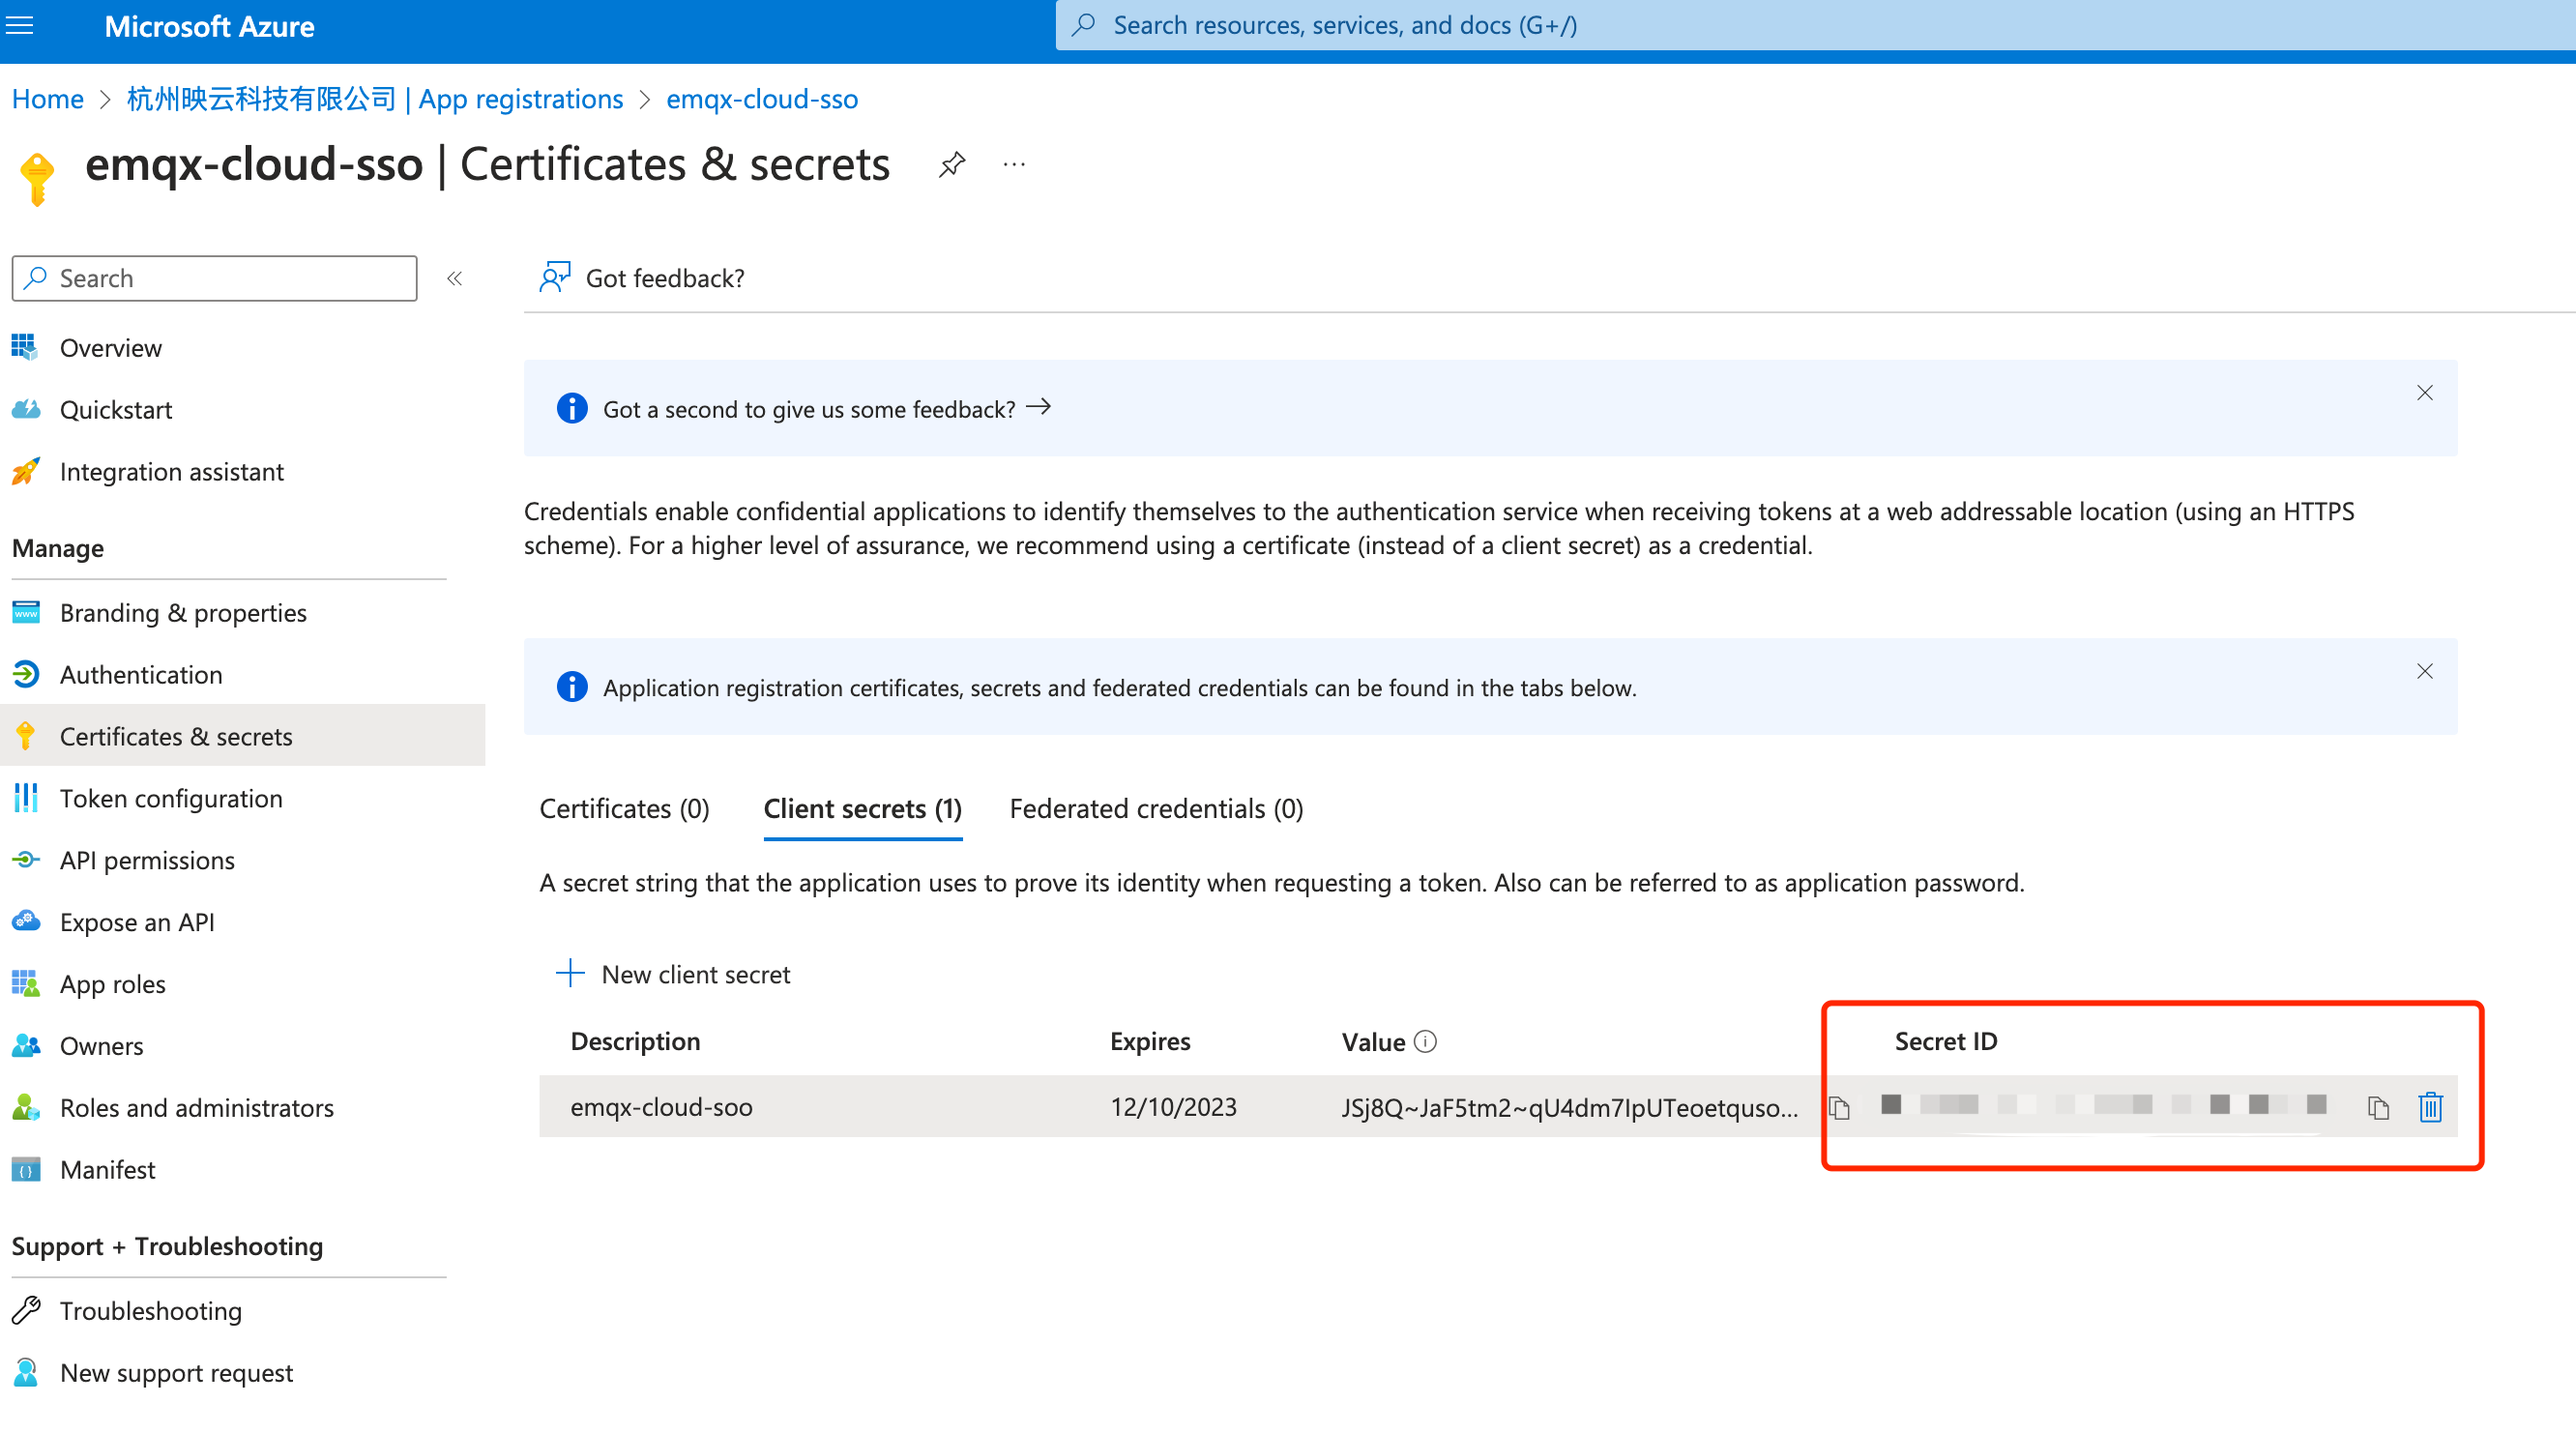
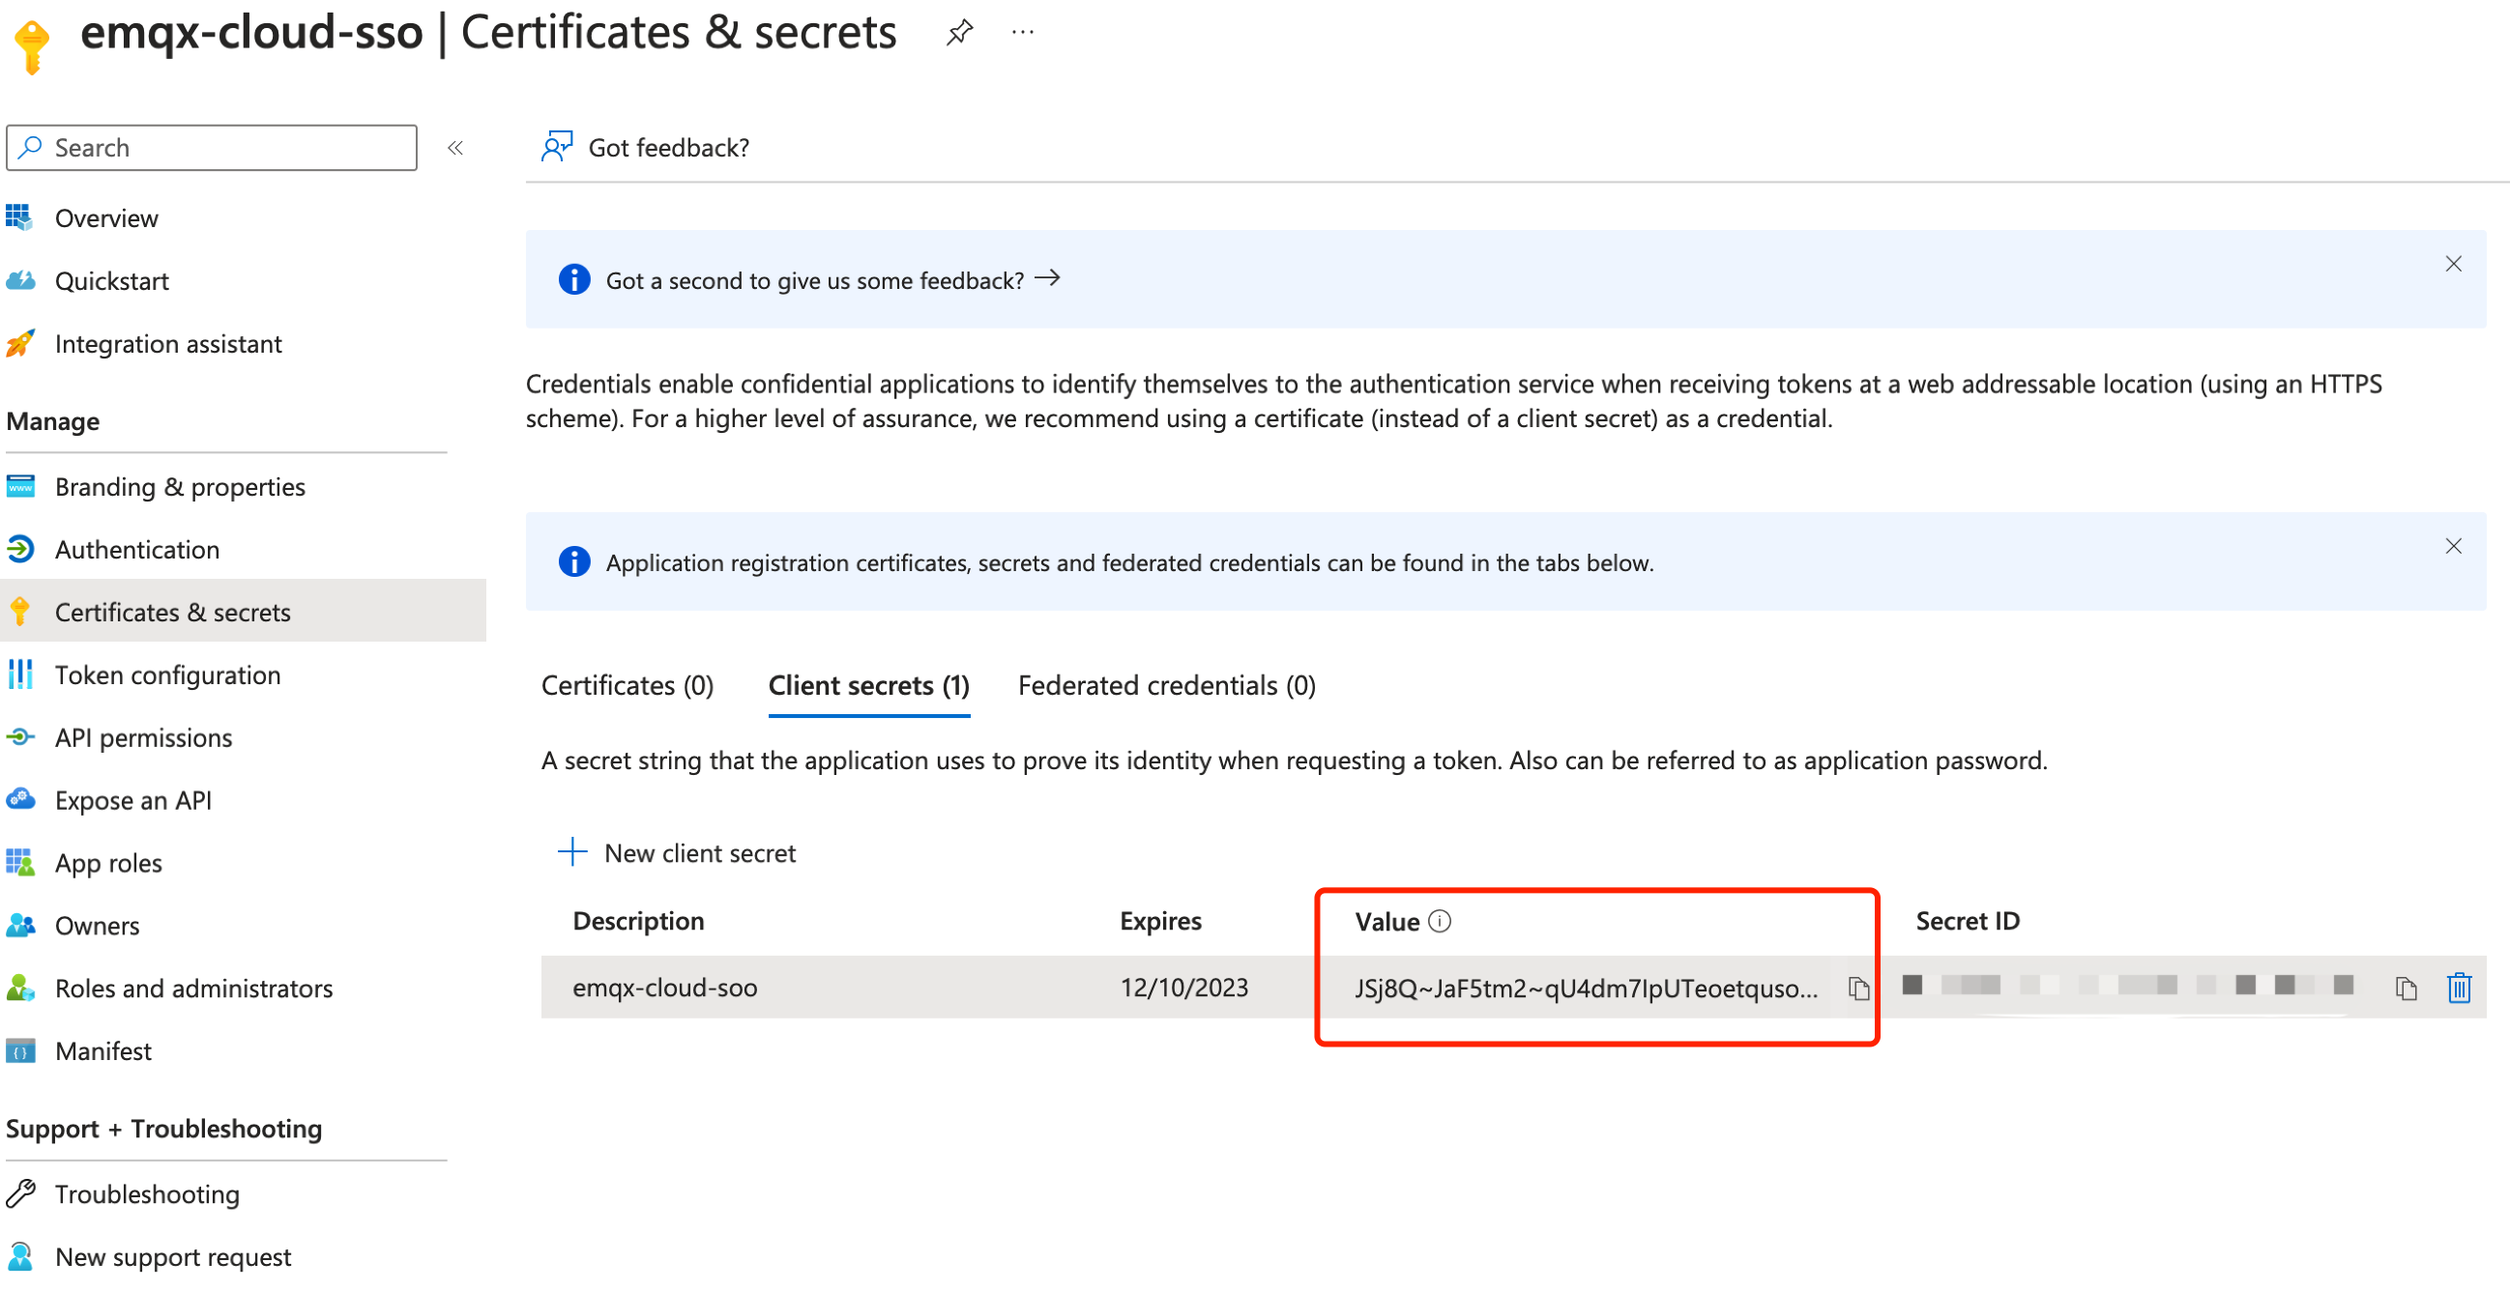
fix(docs): 5.0.2 updates

diff --git a/en_US/deployments/tls_ssl.md b/en_US/deployments/tls_ssl.md
@@ -19,6 +19,8 @@ The following table provides an overview of different requirements for certifica
 
   - 1024 bit RSA (RSA_1024)
   - 2048 bit RSA (RSA_2048)
+  - 256 bit ECDSA (ECC) 
+  - 384 bit ECDSA (ECC) 
 
 - Certificate (including certificate chain, if applicable): The EMQX Cloud supports uploading certificates in **x509** format. **Please merge your certificate (.crt or .pem) and any related certificate chain files into one file and upload it**. If your certificate is issued by a certificate authority, it is important to include the certificate chain to ensure that it is correctly recognized.
 - The certificate must be valid. The certificate cannot be imported within **60 days** before the beginning and end of the validity period.
@@ -44,9 +46,9 @@ The following table provides an overview of different requirements for certifica
   - Private key format
 
   ```bash
-  -----BEGIN (RSA) PRIVATE KEY-----
+  -----BEGIN (RSA/EC) PRIVATE KEY-----
   Base64–encoded private key
-  -----END (RSA) PRIVATE KEY----- 
+  -----END (RSA/EC) PRIVATE KEY----- 
   ```
 
 ## Configure One-Way TLS/SSL

diff --git a/en_US/feature/sso_azure.md b/en_US/feature/sso_azure.md
@@ -54,11 +54,11 @@ Go to the **Configure SSO** page in EMQX Platform and follow these steps:
 
 2. Select **Certificates & secrets** from the left navigation menu in Microsoft Azure. 
 
-3. Select **Client secrets** on the main page and click **+ New client secret**. Fill in the description and expiration date to generate a Client secret. Copy the **Secrete ID**.
+3. Select **Client secrets** on the main page and click **+ New client secret**. Fill in the description and expiration date to generate a Client secret. Copy the **Value**.
 
      <img src="./_assets/azure_3.png" alt="sso" style="zoom:67%;" />
 
-4. Paste the Secret ID into the **Client Secret** field on the EMQX Platform **Configure SSO** page.
+4. Paste the **Value** into the **Client Secret** field on the EMQX Platform **Configure SSO** page.
 
 5. Click **Confirm** to complete the configuration.
 

diff --git a/en_US/connect_to_deployments/mqttx.md b/en_US/connect_to_deployments/mqttx.md
@@ -19,7 +19,7 @@ Before downloading and installing, please visit our [website](https://mqttx.app/
 
 Get the connection address and port in the Deployment Overview (the following **xxxxx represents a random port**, the specific port information **please refer to the information on the deployment overview page**).
 
-- Dedicated plan address: IP; port: 1883(mqtt), 8083(ws) is enabled by default, you can enable port 8883(mqtts) and 8084(wss) by configuring TLS/SSL
+- Dedicated plan address: domain; port: 1883(mqtt), 8083(ws) is enabled by default, you can enable port 8883(mqtts) and 8084(wss) by configuring TLS/SSL
 - BYOC plan address: the domain name specified at deployment time; port: 1883 (mqtt), 8083 (ws), 8883 (mqtts), 8884 (wss)
 
 ### Authentication

diff --git a/en_US/connect_to_deployments/mqttfx.md b/en_US/connect_to_deployments/mqttfx.md
@@ -17,7 +17,7 @@ TCP and TLS protocols are supported **but WebSocket**.
 
 Get the connection address and port in the Deployment Overview (the following **xxxxx represents a random port**, the specific port information **please refer to the information on the deployment overview page**).
 
-- Dedicated plan address: IP; port: 1883(mqtt), 8083(ws) is enabled by default, you can enable port 8883(mqtts) and 8084(wss) by configuring TLS/SSL
+- Dedicated plan address: domain; port: 1883(mqtt), 8083(ws) is enabled by default, you can enable port 8883(mqtts) and 8084(wss) by configuring TLS/SSL
 - BYOC plan address: the domain name specified at deployment time; port: 1883 (mqtt), 8083 (ws), 8883 (mqtts), 8884 (wss)
 
 ### Authentication

diff --git a/zh_CN/connect_to_deployments/mqttx.md b/zh_CN/connect_to_deployments/mqttx.md
@@ -19,8 +19,7 @@
 
 部署概览页面可获取到连接地址和连接端口（以下 **xxxxx 表示随机端口**，具体端口信息**以部署概览页面信息为准**）。
 
-- 专业版地址：IP；端口：默认开启 1883(mqtt)、8083(ws)，您可以通过配置 TLS/SSL 开启 8883(mqtts) 和 8084(wss) 端口
-- 基础版地址：以 emqx.cloud 后缀结尾的域名；端口：xxxxx(mqtt)，xxxxx(ws)，xxxxx(mqtts)，xxxxx(wss)
+- 专业版地址："mqttce.com" 域名；端口：默认开启 1883(mqtt)、8083(ws)，您可以通过配置 TLS/SSL 开启 8883(mqtts) 和 8084(wss) 端口
 - BYOC 地址：部署时指定的域名；端口：1883(mqtt)，8083(ws)，8883(mqtts)，8884(wss)
 
 ### 认证信息

diff --git a/zh_CN/connect_to_deployments/mqttfx.md b/zh_CN/connect_to_deployments/mqttfx.md
@@ -17,7 +17,7 @@
 
 部署概览页面可获取到连接地址和连接端口（以下 **xxxxx 表示随机端口**，具体端口信息**以部署概览页面信息为准**）。
 
-- 专业版地址：IP；端口：默认开启 1883(mqtt)、8083(ws)，您可以通过配置 TLS/SSL 开启 8883(mqtts) 和 8084(wss) 端口
+- 专业版地址："mqttce.com" 域名；端口：默认开启 1883(mqtt)、8083(ws)，您可以通过配置 TLS/SSL 开启 8883(mqtts) 和 8084(wss) 端口
 - 基础版地址：以 emqx.cloud 后缀结尾的域名；端口：xxxxx(mqtt)，xxxxx(ws)，xxxxx(mqtts)，xxxxx(wss)
 - BYOC 地址：部署时指定的域名；端口：1883(mqtt)，8083(ws)，8883(mqtts)，8884(wss)
 

diff --git a/zh_CN/feature/sso_azure.md b/zh_CN/feature/sso_azure.md
@@ -53,11 +53,11 @@
 
 2. 在 Microsoft Azure 中点击左侧导航菜单中的 **Certificates & secrets**。
 
-2. 在主页面中选择 **Client secrets**，点击 **+ New client secret**，填写描述和过期时间，生成 Client secret。复制 **Secrete ID**。
+2. 在主页面中选择 **Client secrets**，点击 **+ New client secret**，填写描述和过期时间，生成 Client secret。复制 **Value**。
 
      ![sso](./_assets/azure_3.png)
 
-3. 将 Secret ID 粘贴到 EMQX Cloud 的**配置 SSO** 页面上的 **Client Secret** 中。
+3. 将 Value 粘贴到 EMQX Cloud 的**配置 SSO** 页面上的 **Client Secret** 中。
 
 4. 点击**确认**完成配置。
 
